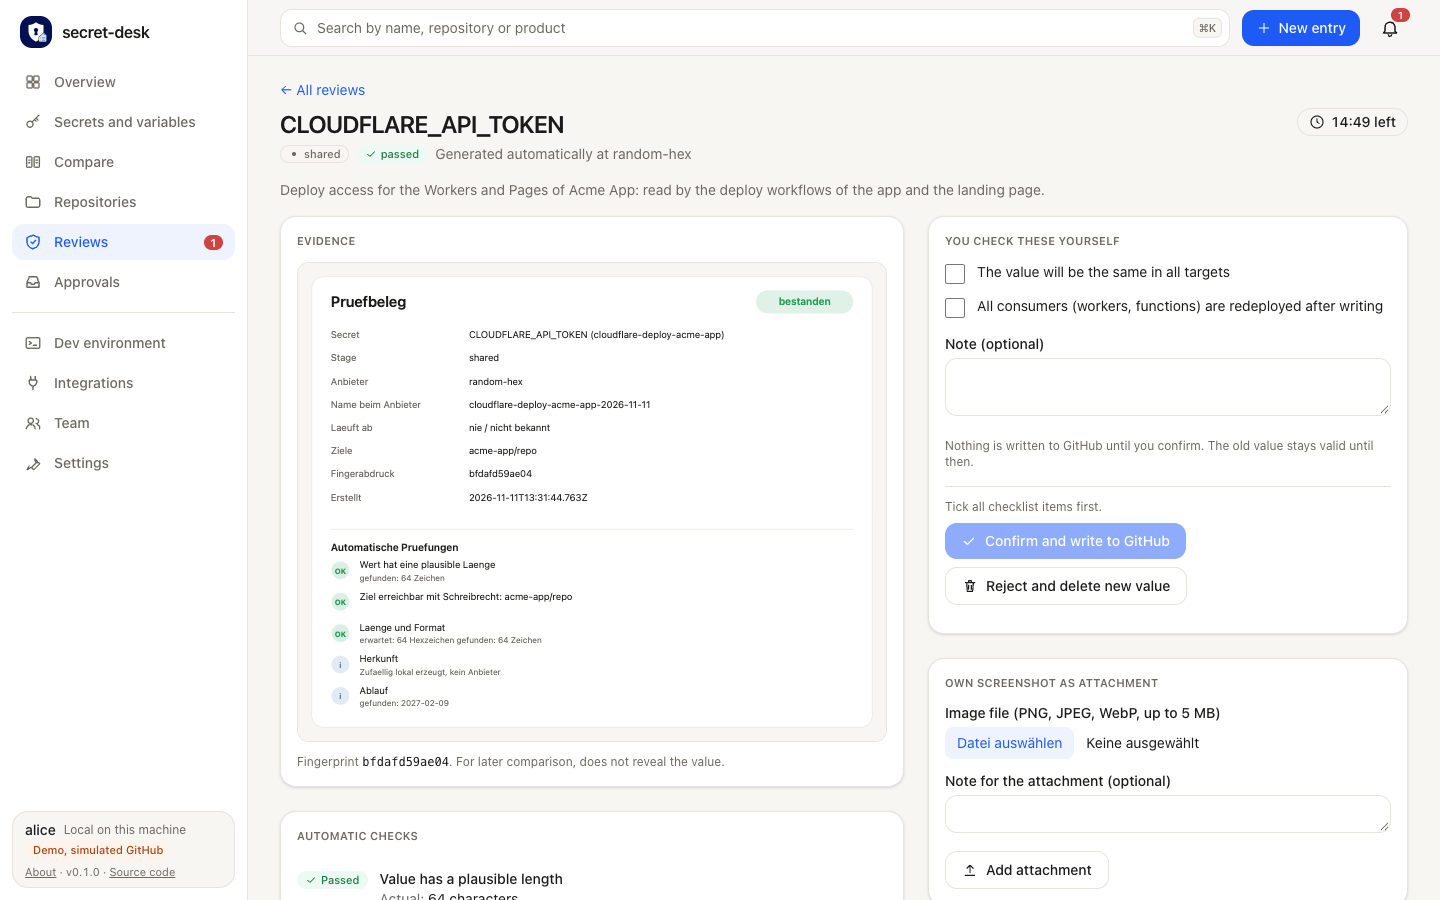
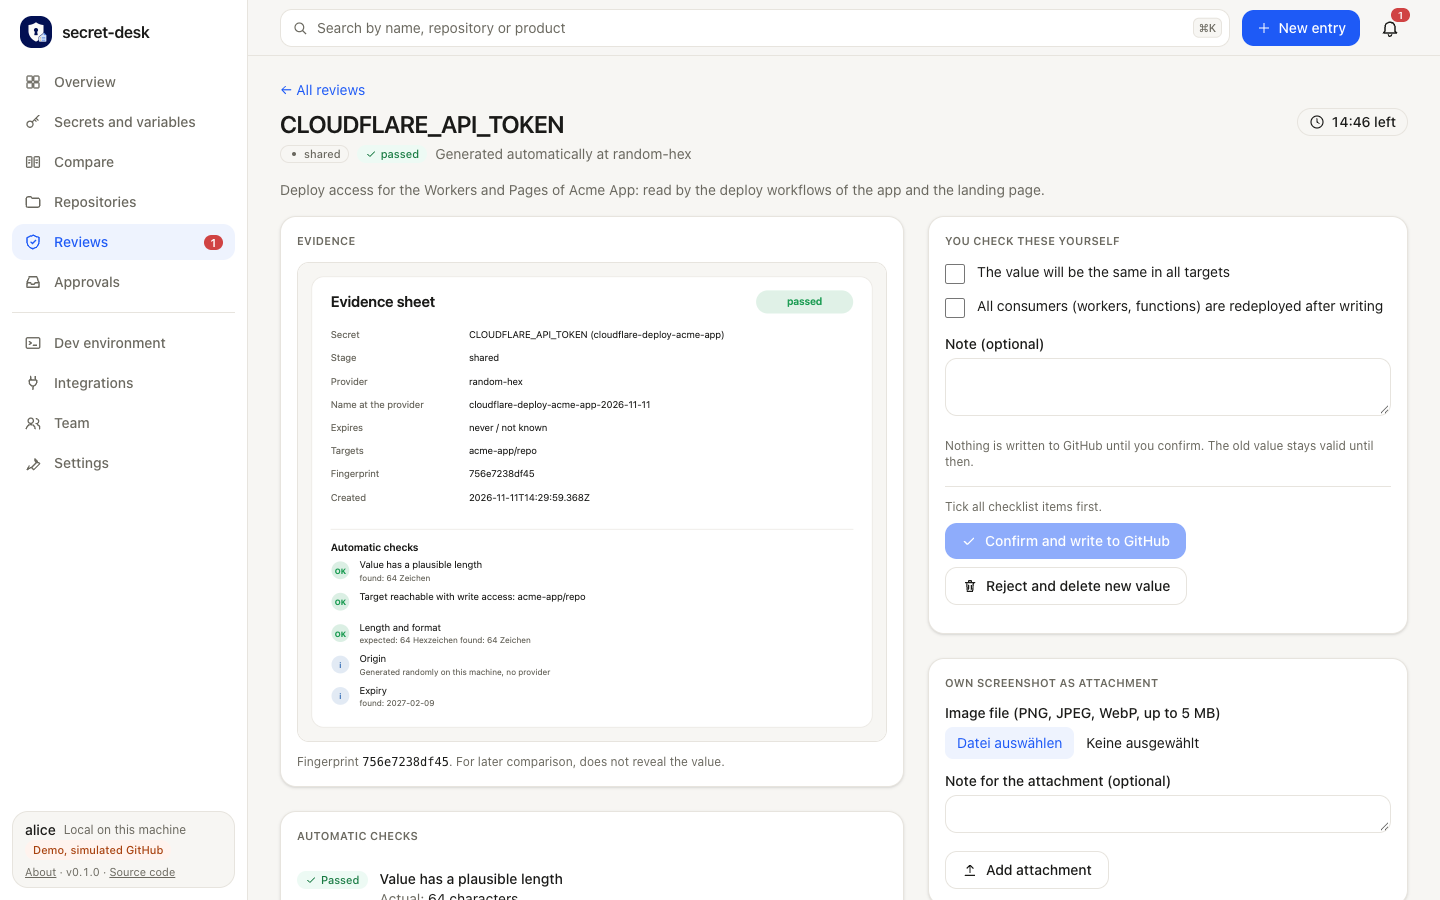
docs: team sync screenshots from the demo, updated guides and changelog

diff --git a/docs/TEAM.md b/docs/TEAM.md
@@ -1,9 +1,14 @@
 # Team
 
 ## The Team page
-![Team page without team sync](images/team.png)
+![Team page with team sync set up, after "Sync now"](images/team.png)
 
-The **Team** page has two cards. The first one is **Team sync with GitHub**: without a setup it says so and offers **Set up** (it opens the welcome page, see below). Once team sync is set up, the card has a header row with the repository, the file and branch, the mode (*read only* or *read and push*) and the time of the last sync, and next to it the buttons **Sync now** and, in push mode, **Create pull request** (strategy `pull-request`) or **Push to repo** (strategy `direct`). When you check or plan a push, the confirm buttons (for example *Add new entries (existing stay)*, *Keep local*, *Confirm and push*) come **before** the difference, so you do not scroll past a long list to act. The team token is one status line (*Team token valid until <date>*, *No team token yet*, *Team token expired* or *The team token does not cover this mode*) with a closed **Manage token** section that opens by itself when there is something to do. *Details* holds the token source and the rights needed.
+The screenshot is the demo with team sync set up (`pnpm demo --team`) after clicking **Sync now**: the state notice, the apply buttons and the preview of what changes. After **Add new entries (existing stay)** the button **Create pull request** shows the push plan with its confirm button and the difference:
+
+![Push plan of the pull-request strategy](images/team-push.png)
+
+
+The **Team** page has two cards. The first one is **Team sync with GitHub**: without a setup it says so and offers **Set up** (it opens the welcome page, see below). Once team sync is set up, the card has a header row with the repository, the file and branch, the mode (*read only* or *read and push*) and the date and time of the last sync (in the language of the portal), and on the right of that row (from a wide window up; below it they sit under the line) the buttons **Sync now** and, in push mode, **Create pull request** (strategy `pull-request`) or **Push to repo** (strategy `direct`). When you check or plan a push, the confirm buttons (for example *Add new entries (existing stay)*, *Keep local*, *Confirm and create pull request*, or *Confirm and push* with the `direct` strategy) come **before** the difference, so you do not scroll past a long list to act. The team token is one status line (*Team token valid until <date>*, *No team token yet*, *Team token expired* or *The team token does not cover this mode*; when sync works through the GitHub integration and there is no team token, a neutral *Uses your GitHub integration. A separate team token is optional.* and nothing to do) with a closed **Manage token** section that opens by itself when there is something to do. *Details* holds the token source and the rights needed.
 
 The second card is **File exchange**: *Download team configuration* on the left, *Import team configuration* (file or pasted text, *Replace existing entries*) on the right. Both are described below.
 
@@ -67,11 +72,19 @@ The portal checks instead of guessing: the connection test of *Team repository* 
 
 **Conflicts.** If the repository and the local inventory both changed, nothing is overwritten silently. You see the difference and choose: take over the repository (merge or replace), keep local (the repository state is marked as seen, a later push will overwrite it), or cancel.
 
-**Push.** In `mode: pull-push` the Team page shows *Create pull request* (strategy `pull-request`) or *Push to repo* (strategy `direct`) in the card header (or use `secret-desk team push`). The portal exports the team file, checks that it contains no values, `externalId` or `rotatedAt` (and neither the access token, nor the token of any connected provider, nor anything shaped like a Stripe, RevenueCat, Supabase, OpenAI, Anthropic, Cloudflare, Resend or GitHub key or a PEM private key), shows the difference to the repository and asks for one confirmation for all pending changes (*Confirm and push*, placed above the difference). Then it commits one file: with `pull-request` to `push.branch` and opens (or updates) a pull request against `branch`, with `direct` straight to `branch`. Pushes are rate-limited (at least 30 seconds apart) so clicking repeatedly does not create a commit each time. Errors (no network, expired token, 403, 404, conflict) are reported and nothing partial is written. Portal changes are not pushed automatically: they show up as *local changes*, and you push when you are ready.
+**Push.** In `mode: pull-push` the Team page shows *Create pull request* (strategy `pull-request`) or *Push to repo* (strategy `direct`) in the card header (or use `secret-desk team push`). The portal exports the team file, checks that it contains no values, `externalId` or `rotatedAt` (and neither the access token, nor the token of any connected provider, nor anything shaped like a Stripe, RevenueCat, Supabase, OpenAI, Anthropic, Cloudflare, Resend or GitHub key or a PEM private key), shows the difference to the repository and asks for one confirmation for all pending changes (*Confirm and create pull request* with the strategy `pull-request`, *Confirm and push* with `direct`, placed above the difference). Then it commits one file: with `pull-request` to `push.branch` and opens (or updates) a pull request against `branch` (the link is shown once, in the success notice, and later as *Open pull request*), with `direct` straight to `branch`. Pushes are rate-limited (at least 30 seconds apart) so clicking repeatedly does not create a commit each time. Errors (no network, expired token, 403, 404, conflict) are reported and nothing partial is written. Portal changes are not pushed automatically: they show up as *local changes*, and you push when you are ready.
 
 **Agents.** AI agents may read the status (`GET /api/agent/team-sync/status`). Checking, taking over and pushing are human actions in the portal or the CLI.
 
 **CLI.** `secret-desk team status|pull|push --config secret-desk.config.yaml`. `pull` shows the preview; `--apply merge|replace|keep-local` takes over (`--confirm-replace` for replace). `push` shows the difference; `--yes` confirms.
+
+## Try it in the demo
+The demo (simulated GitHub, made-up data, nothing leaves your machine) can show team sync too:
+
+- `pnpm demo`: the plain demo. On the welcome page (*Load from GitHub*) the lists work: repository `acme/team-config` is preselected (a public repository is listed but cannot be chosen), then branch, file and mode. Saving and *Load preview* shows a difference.
+- `pnpm demo --team` (or `SECRET_DESK_DEMO_TEAM=1 pnpm demo`): team sync is already set up in `read and push` mode with the pull-request strategy (`examples/demo/secret-desk.team.config.yaml`). *Sync now* reports "changed in the repository" with a small difference (one changed description, one added secret, metadata only), *Add new entries (existing stay)* takes it over, and *Create pull request* answers with a made-up pull request URL under `https://github.com/acme/team-config/pull/`.
+
+The simulated repository lives in memory and starts fresh with every start. The demo works on a temporary copy of `examples/demo`, so taking over entries or saving the setup never changes files in this repository. Only that copy gets the seeded "synced a few days ago" state (`pnpm demo` sets `SECRET_DESK_DEMO_SEED=1` for it); with your own `SECRET_DESK_CONFIG` the demo writes no sync state file next to your configuration. It needs no token; none is shown or stored.
 
 ## Resource mapping in a team
 The `resourceMap` (repository to provider resource, see [RESOURCES.md](RESOURCES.md#mapping-repositories-to-resources)) is exported with the rest and contains only ids and display names, no secrets. On import (merge), an entry whose key (`kind`, `repo`, `stage`) already exists locally stays unchanged and new keys are added; `--replace` takes over the list from the file (and removes the local list if the file has none). Resource ids belong to a provider account: a teammate who connects a different account sees *The mapping points to a resource the provider does not know* until the mapping is adjusted.

diff --git a/CHANGELOG.md b/CHANGELOG.md
@@ -8,6 +8,9 @@ The format is based on [Keep a Changelog](https://keepachangelog.com/en/1.1.0/),
 
 ### Added
 
+- **Demo with team sync:** `pnpm demo --team` (or `SECRET_DESK_DEMO_TEAM=1`) starts the demo with team sync set up (simulated repository `acme/team-config`, read and push, pull-request strategy, `examples/demo/secret-desk.team.config.yaml`). *Sync now* shows a small difference, *Add new entries* takes it over, *Create pull request* answers with a made-up pull request URL. The demo works on a temporary copy of `examples/demo`. New screenshots `docs/images/team.png` (after *Sync now*) and `docs/images/team-push.png` (push plan).
+- **Combined status filter:** `/entries?status=soon,due` lists entries that are *Expiring soon* or *Due*; the *Due soon* tile on the Overview links to it and now counts both.
+
 - **Anthropic: Team or Personal.** The connect dialog asks how to connect: *Team organization* (Admin key, as before) or *Personal (individual)* (a normal API key, 30 days, created by the recipe `anthropic-api-key` and checked with `GET /v1/models`). New generic facade `variants` (request field `variant`, validated server-side; `FacadeInfo.variants`); the sign-in stays shared. Everything that assumed an Admin key now branches on the stored key type: the connection test, the pasted-key check (either kind is accepted), workspace discovery (a normal key lists only the default workspace) and revoke (the Admin API only for an Admin key). A Team run on an account without admin keys now also says to choose Personal. The facade now passes the variant's expiry to the recipe as `days`.
 
 - **Recipe click option `stopsDryRun: true`:** marks a click that already creates or changes something at the provider before the `createsToken` click (for example the policy in `grafana-cloud-access-policy`). A dry run, and with it the live check, stops before it; a real run ignores it. Not combinable with `optional`, not allowed in sign-in steps or read recipes. A dry run now also stops at the first `createsToken` or `stopsDryRun` step **before** its `when` is evaluated, so a marker behind a variant gate (Stripe) can no longer be passed. A guard test lists every state-changing looking click before the first stop marker in `recipes/*.yaml`. Fix: the Grafana dry run no longer creates an access policy.
@@ -31,6 +34,10 @@ The format is based on [Keep a Changelog](https://keepachangelog.com/en/1.1.0/),
 - **Cloudflare Worker secrets as a place type:** a secret can now live as a secret of a deployed Cloudflare Worker (`places: [{ scope: cloudflare-worker, accountId, script }]`, what `wrangler secret put NAME --env staging` writes) instead of, or next to, a GitHub secret. It plugs in everywhere places are used: the renewal review lists "writes Worker secret NAME on script S" as a checklist item and checks the Worker is reachable; the production confirmation of the entry's stage applies; `doctor` and the Cloudflare connection test read the secret names of each Worker (reachability, never a probe write); the entries list status shows *present* or *missing* by name; the sync plan has Worker secret lines (`worker:<script>`, `--repo worker:<script>`); the secret form offers the scope *Cloudflare Worker* with the account (integration default) and the deployed Workers of the account as suggestions (new discovery kind `cloudflare.workerScript`, read only on request). Writes use `PUT /accounts/<id>/workers/scripts/<script>/secrets` with the `cloudflare` connection (needs *Workers Scripts* edit); values are never read back (the API returns names only) and nothing is deleted. Worker variables and the repository comparison matrix are out of scope; variables reject Worker places.
 
 ### Changed
+
+- **Team page:** the last sync is shown as date and time in the language of the portal (ISO value in the tooltip); with sync working through the GitHub integration and no team token the status line is neutral (*Uses your GitHub integration. A separate team token is optional.*) and *Manage token* stays closed; with the pull-request strategy heading, confirm button and notice say *Create pull request* / *Confirm and create pull request* / *Pull request created* (`direct` keeps the push wording); the pull request link is shown once; the two buttons sit on the right of the header row from a wide window up.
+- **Evidence sheet language:** the evidence image follows the interface language (`?lang=en` on `GET /api/ui/evidence/<secret>/<report>/svg`, German without it).
+- **Compare toolbar** is three rows (live toggle, selects and search; stage chips; checkboxes), so the table starts higher. **Phone layouts:** the entries filters collapse behind one *Filters* button, the dev environment cards work as an accordion.
 
 - **Task-first portal layout.** Every screen shows its main action in the first viewport, and confirm buttons come before or beside long previews. Dialogs have a fixed footer with submit and cancel; *New entry* asks for the required fields first and keeps title, product, expiry, description, owner, link and tags in a closed *Optional details* section. **Team:** the sync card has a header row (repository, file, mode, last sync) with *Sync now* and *Create pull request* / *Push to repo*; check and push results show their buttons before the difference; the team token is one status line with a *Manage token* section; export and import are one *File exchange* card. **First start:** one choice of *Load from GitHub*, *Upload a file* or *Start empty*, one panel at a time. **Compare:** one toolbar (live toggle with status, repository, type, name search, stage chips, checkboxes), a compact summary strip, *Write everything to GitHub* and *Copy as Markdown* in the page header. **Secrets and variables:** one toolbar, *More filters* for provider, parameters, group and sort, a *Reset* button while a filter is active. **Dev environment:** path, inputs and *Generate file* first, the key list in a closed section with a count, *Export .env* as one row. **Integrations:** the live check is one compact bar, *Expand all* sits in the page header, provider cards are a one, two or three column grid with a category label. **Secret detail:** description and parameters left, facts and targets right; the check history shows the three newest checks. **Review:** confirm and reject in a sticky action bar. **Overview:** stat cards link to the filtered lists, the attention list comes before the integrations block. Lower top bar, wider content, compact sidebar footer.
 - **Documentation follows the new layout.** All screenshots are regenerated by `pnpm docs:screenshots`, which now also takes `new-entry.png`, `team.png`, `setup.png`, `command-palette-1440.png` and phone captures at 375 px (`overview-375.png`, `entries-375.png`, `compare-375.png`, `dev-env-375.png`). New [`docs/UI-GUIDE.md`](docs/UI-GUIDE.md): a short tour of every screen. README, Getting started, Team, Compare, Dev environment, Integrations, Entries, Repositories, Search, Troubleshooting and FAQ describe the new controls.

diff --git a/docs/COMPARE.md b/docs/COMPARE.md
@@ -10,7 +10,7 @@ Source: pure logic in [`packages/core/src/compare.ts`](../packages/core/src/comp
 
 ## The page
 
-The two bulk actions sit in the page header: **Write everything to GitHub** and **Copy as Markdown**. Below the header is **one toolbar**: the live toggle (*Check live against GitHub*) with its status next to it (*Inventory only* or *Live state from GitHub*), the repository and type selects, the name search, the compared-stage chips and the checkboxes (*Deviations only*, *Gaps first*, *Normalize names*). With the live toggle on, the toolbar also shows *All repositories of the organization*, *Evaluate workflows*, *Only needed by workflows* and a *Reload* button. A line under the toolbar says which state you see and what *missing* and *only in GitHub* mean; a closed section, *What do these options do?*, explains the checkboxes. A compact summary strip under the toolbar lists expected, present, missing and unexpected per stage, followed by one line with the row counts. The page header and the toolbar are in the first screen, so nothing needs scrolling before you can act; with the live toggle on, the notice about unreadable targets and the strip follow right below the toolbar.
+The two bulk actions sit in the page header: **Write everything to GitHub** and **Copy as Markdown**. Below the header is **one toolbar** (three rows with the live toggle on: toggle, selects and search; stage chips; checkboxes): the live toggle (*Check live against GitHub*) with its status next to it (*Inventory only* or *Live state from GitHub*), the repository and type selects, the name search, the compared-stage chips and the checkboxes (*Deviations only*, *Gaps first*, *Normalize names*). With the live toggle on, the toolbar also shows *All repositories of the organization*, *Evaluate workflows*, *Only needed by workflows* and a *Reload* button. A line under the toolbar says which state you see and what *missing* and *only in GitHub* mean; a closed section, *What do these options do?*, explains the checkboxes. A compact summary strip under the toolbar lists expected, present, missing and unexpected per stage, followed by one line with the row counts. The page header and the toolbar are in the first screen, so nothing needs scrolling before you can act; with the live toggle on, the notice about unreadable targets and the strip follow right below the toolbar.
 
 Before you turn the live toggle on, the page shows the inventory only:
 

diff --git a/README.md b/README.md
@@ -96,7 +96,7 @@ All screenshots come from the built-in demo (simulated GitHub, made-up data) and
 | [![Secrets and variables](docs/images/entries.png)](docs/images/entries.png)<br>**Secrets and variables:** one list, one toolbar (search, kind, repository, stage, status; more filters behind a button) | [![New entry](docs/images/new-entry.png)](docs/images/new-entry.png)<br>**New entry:** required fields first, optional details in a closed section, fixed *Create* / *Cancel* footer |
 | [![Review](docs/images/review-detail.png)](docs/images/review-detail.png)<br>**Review:** evidence image, checklist, confirm or reject in a sticky action bar | [![Reviews](docs/images/reviews.png)](docs/images/reviews.png)<br>**Reviews:** open reviews waiting for a human |
 | [![Compare](docs/images/compare-live.png)](docs/images/compare-live.png)<br>**Compare:** one toolbar with the live toggle, a compact summary strip, *Write everything to GitHub* and *Copy as Markdown* in the header | [![Variables](docs/images/variables.png)](docs/images/variables.png)<br>**Variables:** the same list with *Kind: Variables*, expected value against GitHub |
-| [![Integrations](docs/images/integrations.png)](docs/images/integrations.png)<br>**Integrations:** a compact live check bar and one card per provider in a grid | [![Team](docs/images/team.png)](docs/images/team.png)<br>**Team:** team sync with GitHub and one *File exchange* card |
+| [![Integrations](docs/images/integrations.png)](docs/images/integrations.png)<br>**Integrations:** a compact live check bar and one card per provider in a grid | [![Team](docs/images/team.png)](docs/images/team.png)<br>**Team:** team sync with GitHub (shown after *Sync now*: state, apply buttons, preview) and one *File exchange* card; the push plan is in [docs/images/team-push.png](docs/images/team-push.png) |
 | [![Setup](docs/images/setup.png)](docs/images/setup.png)<br>**First start:** load the team configuration from GitHub, upload a team file, or start empty | [![Repositories](docs/images/repositories.png)](docs/images/repositories.png)<br>**Repositories:** link folders on this machine |
 | [![Settings](docs/images/settings.png)](docs/images/settings.png)<br>**Settings:** freely configurable stages | [![Overview](docs/images/overview.png)](docs/images/overview.png)<br>**Overview:** stat cards link to the filtered lists, the attention list comes first |
 

diff --git a/docs/UI-GUIDE.md b/docs/UI-GUIDE.md
@@ -32,7 +32,7 @@ A secret opens its own page: description and parameters on the left, facts and t
 
 ![Variables](images/variables.png)
 
-Phone width: [entries at 375 px](images/entries-375.png), [overview at 375 px](images/overview-375.png).
+Phone width: [entries at 375 px](images/entries-375.png) (the filters are collapsed behind one *Filters* button next to the search), [overview at 375 px](images/overview-375.png).
 
 ## Compare
 
@@ -42,7 +42,7 @@ Main action: **Write everything to GitHub** in the page header, next to **Copy a
 
 ![Compare, live](images/compare-live.png)
 
-Phone width: [compare at 375 px](images/compare-375.png).
+Phone width: [compare at 375 px](images/compare-375.png) (the toolbar stacks into one column).
 
 ## Repositories
 
@@ -76,7 +76,7 @@ Main action: **Generate file** on each repository card. A card starts with the f
 
 ![Dev environment](images/dev-env.png)
 
-Phone width: [dev environment at 375 px](images/dev-env-375.png).
+Phone width: [dev environment at 375 px](images/dev-env-375.png) (one repository card open at a time, like an accordion).
 
 ## Integrations
 
@@ -98,9 +98,11 @@ With every card open:
 
 What you do here: share the configuration without values, either through a private GitHub repository or as a file.
 
-Main action: **Sync now** in the header row of the *Team sync with GitHub* card, plus **Create pull request** or **Push to repo** in push mode. Without a setup the card offers **Set up**. Confirm buttons of a check or a push are above the difference. The team token is one status line with *Manage token*. *File exchange* holds the download and the import. Details: [TEAM.md](TEAM.md).
+Main action: **Sync now** in the header row of the *Team sync with GitHub* card (on the right of the row from a wide window up), plus **Create pull request** or **Push to repo** in push mode. The last sync is shown as date and time in your language. Without a setup the card offers **Set up**. Confirm buttons of a check or a push are above the difference. The team token is one status line with *Manage token*. *File exchange* holds the download and the import. Details: [TEAM.md](TEAM.md).
 
 ![Team](images/team.png)
+
+After **Create pull request** the push plan has its confirm button above the difference: [push plan](images/team-push.png).
 
 ## Settings
 

diff --git a/docs/ENTRIES.md b/docs/ENTRIES.md
@@ -16,7 +16,7 @@ All filters sit in **one toolbar** above the table: a search field, the *Kind* s
 
 *Kind: All | Secrets | Variables* is part of the toolbar; the numbers show how many entries each choice would list under the other filters. The choice is in the URL: `?kind=secret` or `?kind=variable` (anything else means all).
 
-Other filters in the URL: `stage`, `status`, `repo`, `tag`, `q`. Example: `/entries?stage=production&status=missing` (used by links from Compare, Overview and Repositories). *Group by* and *Sort by* apply to both kinds.
+Other filters in the URL: `stage`, `status`, `repo`, `tag`, `q`. Example: `/entries?stage=production&status=missing` (used by links from Compare, Overview and Repositories). `status` also takes a comma-separated list: `status=soon,due` shows entries that are *Expiring soon* or *Due* (the link of the *Due soon* tile on the Overview); the status select offers this combination only while the URL carries it. *Group by* and *Sort by* apply to both kinds.
 
 ## Columns
 
